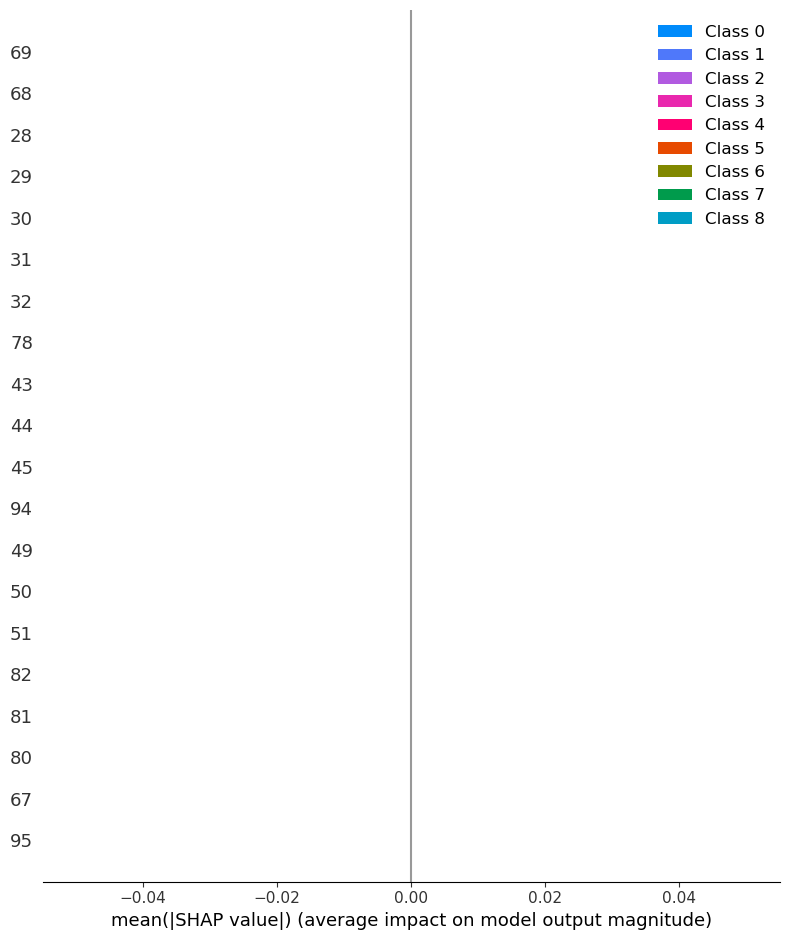
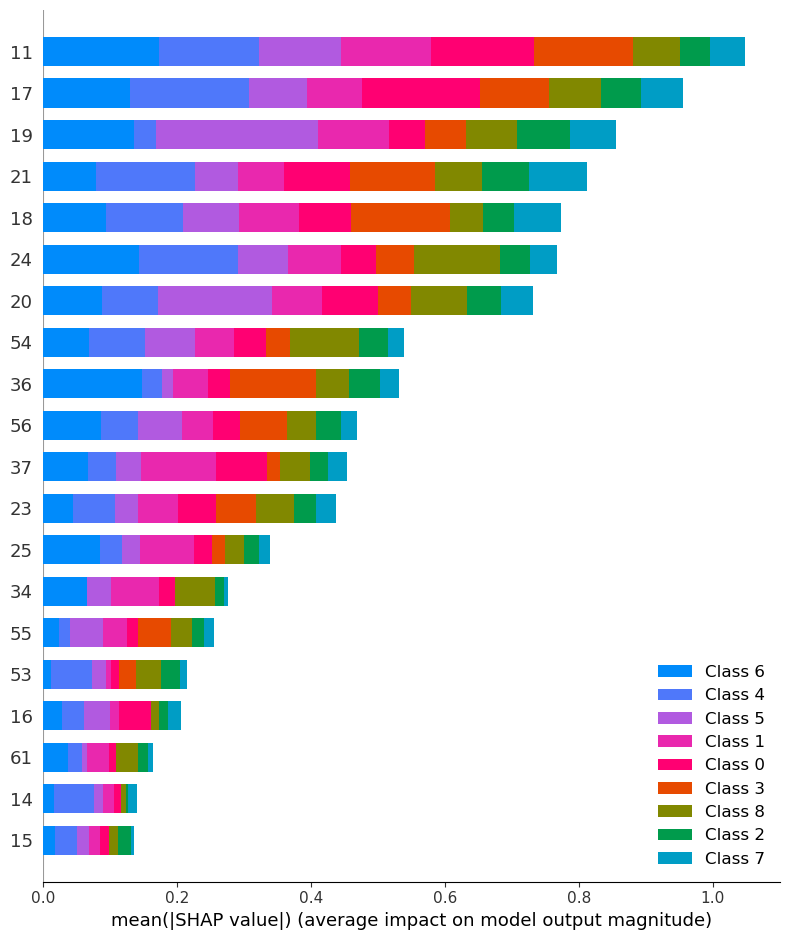
tree querying implemented and shap extended to all features

diff --git a/XGBoost Scripts/model_structure_and_shap.py b/XGBoost Scripts/model_structure_and_shap.py
@@ -44,6 +44,16 @@ def model_dump_to_array(model):
                 class_trees[i][j][k] = node_str_to_arr(class_trees[i][j][k])
     return class_trees
 
+def model_dump_to_array_linear(model):
+    dump = model.get_booster().get_dump()
+    all_trees = []
+    for tree_str in dump:
+        tree_lines = tree_str.split("\n")
+        tree_array = [node_str_to_arr(line) for line in tree_lines if line.strip() != ""]
+        all_trees.append(tree_array)
+
+    return all_trees
+
 def plot_binary_tree(tree):
     G = nx.DiGraph()
     
@@ -89,16 +99,12 @@ def plot_binary_tree(tree):
 def shap_features(model, X_train):
     explainer = shap.TreeExplainer(model)
     shap_values = explainer.shap_values(X_train)
-    
-    shap.summary_plot(shap_values, X_train, plot_type="bar")
-    
     return shap_values
 
-def shap_features_least(model, X_train):
+def shap_plot(shap_values, X_train):
+    shap.summary_plot(shap_values, X_train, plot_type="bar")
 
-    explainer = shap.TreeExplainer(model)
-    shap_values = explainer.shap_values(X_train)
-
+def shap_features_least(shap_values, X_train):
     # For multi-class: shap_values is (n_samples, n_features, n_classes)
     if isinstance(shap_values, np.ndarray) and shap_values.ndim == 3:
         # Average over samples and classes
@@ -115,7 +121,25 @@ def shap_features_least(model, X_train):
     # Plot SHAP summary bar plot for least important
     shap.summary_plot(shap_values[:, least_important_idx, :], X_least, plot_type="bar")
 
-    return shap_values
+def shap_features_by_group(shap_values, X_train, group=0):
+    if isinstance(shap_values, np.ndarray) and shap_values.ndim == 3:
+        mean_abs_shap = np.abs(shap_values).mean(axis=(0, 2))  # shape: (n_features,)
+    else:
+        raise ValueError("Unexpected SHAP value shape. Expected 3D array for multi-class.")
+
+    # Sort features by importance (descending)
+    sorted_idx = np.argsort(-mean_abs_shap)
+
+    # Determine number of features in this group
+    start = group * 20
+    end = min(start + 20, len(mean_abs_shap))
+
+    group_indices = sorted_idx[start:end]
+
+    # Subset for plotting
+    X_subset = X_train.iloc[:, group_indices]
+    shap.summary_plot(shap_values[:, group_indices, :], X_subset, plot_type="bar")
+
 
 
 

diff --git a/XGBoost Scripts/tree_querying.py b/XGBoost Scripts/tree_querying.py
@@ -1,0 +1,28 @@
+import pickle
+import model_structure_and_shap as ms
+
+#get indicies of trees containing a feature ordered in how many times the feature appears in such a tree
+
+def get_trees_with_feature(model, feature_index):
+    tree_arrays = ms.model_dump_to_array_linear(model)
+    found_indicies = []
+    for i in range(len(tree_arrays)):
+        found = False
+        n_occurances = 0
+        for j in range(len(tree_arrays[i])):
+            if tree_arrays[i][j][1] == feature_index:
+                if found == False:
+                    found = True
+                n_occurances += 1
+        if found == True:
+            found_indicies.append([i, n_occurances])
+    found_indicies = sorted(found_indicies, key=lambda x: x[1], reverse=True)
+    return found_indicies
+        
+
+'''
+with open(f'models/xgb_Full.pkl', 'rb') as model_file:
+    model = pickle.load(model_file)
+
+print(get_trees_with_feature(model, 95))
+tree_arrays = ms.model_dump_to_array_linear(model)'''

diff --git a/XGBoost Scripts/shap_test.py b/XGBoost Scripts/shap_test.py
@@ -63,6 +63,6 @@ for dat_pack in DataPackages.items():
     
     print("Applying SHAP")
     
-    #model_shap = ms.shap_features(model, X_train)
+    model_shap = ms.shap_features(model, X_train)
     
-    model_shap_least = ms.shap_features_least(model, X_train)
+    #model_shap_least = ms.shap_features_least(model, X_train)
